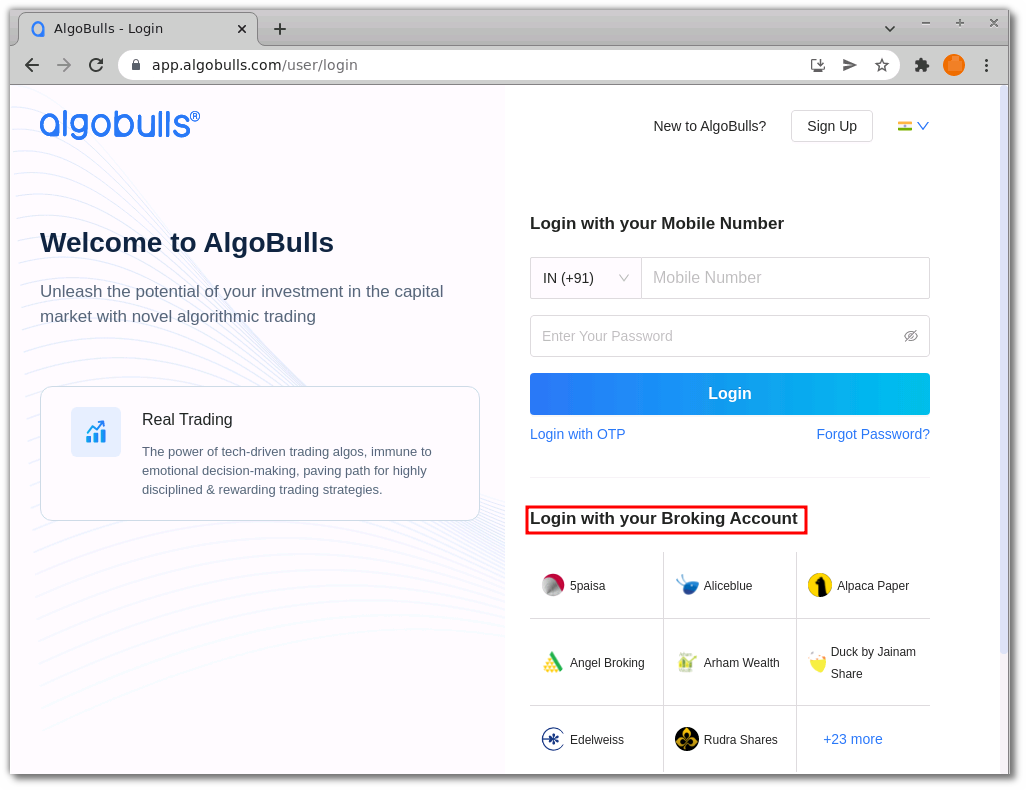
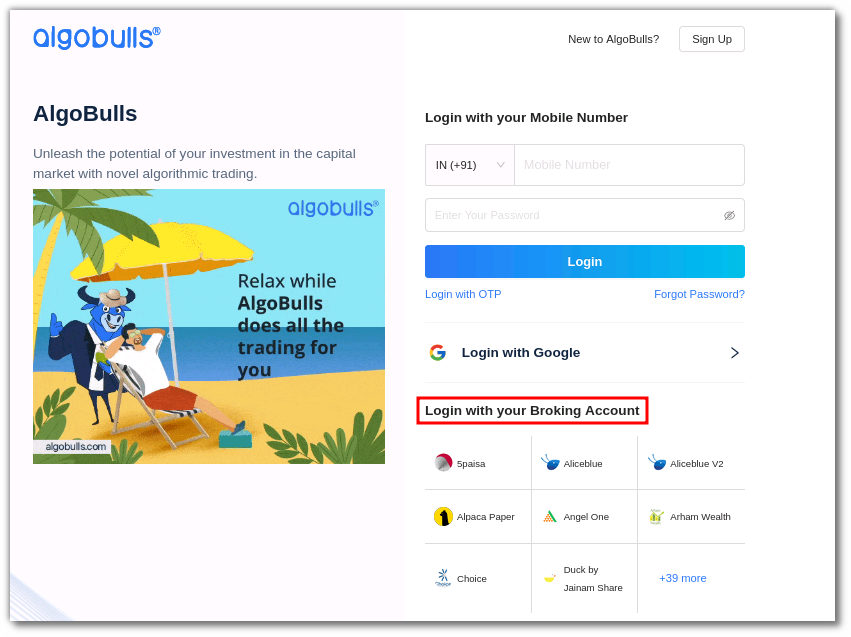
feature/python_build_choice_broker_and_brokerage_calculator_updates

diff --git a/docs/member/python-build.md b/docs/member/python-build.md
@@ -1,0 +1,205 @@
+# Python Build
+
+## 1. Introduction
+---
+
+Now you can code your own strategy easily using our Python Build service! Begin coding your own strategy from scratch or modify some of our readymade templates to suit your needs. Get access to our state-of-the-art AlgoBulls Core Trading Engine, which automatically leverages our infra so that you can access latest historical data to gauge the performance of your strategies. Tweak the various parameters of your strategy to choose the ideal instrument, indicator values, and profit loss percentages as per your needs! View the performance of your strategy using our visual analytics feature and continue to tweak till you are satisfied with the performance. Get your strategy approved for live trading from our experts and deploy it on 30+ supported brokers without coding any broker integration logic.
+
+Go to **Build Strategy** in the sidebar navigation and select **Python Build** to know more
+
+![pythonbuild](imgs/python_build_select.png)
+
+**An overview:**
+
+![pythonbuild](imgs/python_build_dashboard.png)
+
+**Running Strategies:** This section shows how many strategies are currently active and running in your account. 
+
+**Strategies Saved:** This displays the number of strategies saved in your AlgoBulls account. 
+
+**Time Consumed:** You can view the number of minutes that have been used for backtesting strategies.
+
+!!! note "Note:"
+
+    The use of backtesting is limited to one month. On weekends and after midnight (post 12 AM), you won't be able to backtest strategies.
+ 
+**Analytics Support:** This shows whether or not your analytics support is active. Analytics support is not available to free plan users.
+
+**Professional Support:** This section connects you to other professional support forums for additional support while developing the strategy. 
+
+**Active Plan:** This section displays the current plan active on your AlgoBulls account. 
+
+**Ready Templates:** Ready-to-use templates that you can modify and test.
+
+![pythonbuild](imgs/python_build_ready_templates.png)
+
+**My Coded Strategies:** Strategies that have been coded and saved by you are displayed here. This includes new and modified strategies developed by you.
+
+![pythonbuild](imgs/python_build_my_strategies.png)
+
+**Quick Help:** Resources to help you code better.
+
+![pythonbuild](imgs/python_build_help.png)
+
+**How to get started with Python Build?**
+
+![pythonbuild](imgs/python_build_plans.png)
+
+To start developing your own strategy, you must first activate a plan from the **Plans & Wallet** section. Select the **Developers** option in the **Explore Plans** section and select a plan of your choice. There are currently two developer plans available:
+
+* **Premium Developer Plan** - Develop your own Algorithmic Trading Strategy with Analytics support, concurrent Strategy Executions, Professional Support, and more.
+
+* **Free Developer Plan** - Develop your own Algorithmic Trading Strategy for Free.
+
+After selecting your preferred plan, you will be able to begin coding. You can either edit the pre-loaded **Ready Template** or use the **My Coded Strategies** section to create your own strategies.
+
+**How to code strategies using Ready Templates?**
+
+![pythonbuild](imgs/python_build_ready_templates.png)
+
+Select a template that you would like to modify from the **Ready Template** section. To view all the ready-to-use templates click on **More**.
+
+![pythonbuild](imgs/python_build_all_ready_templates.png)
+
+Click on the **Code button** placed in the bottom right corner of the selected template to view the strategy code.
+
+![pythonbuild](imgs/python_build_selected_strategy.png)
+
+You should now see the **code editor**, where you can start modifying the code as required.
+
+![pythonbuild](imgs/python_build_code_edit.png)
+
+To save the strategy, click the Save button. This strategy will be added to your list of **My coded strategies**.
+
+![pythonbuild](imgs/python_build_save_strategy.png)
+
+To test the strategy's performance, click the **Save & Start button**.
+
+**Step 1**
+
+After clicking **Save & Start**, a pop-up window will appear.
+
+![pythonbuild](imgs/python_build_save_and_start.png)
+
+**Step 2**
+
+In the **customizations** section choose **back data for backtesting** or **live data for paper trading**.
+
+Select the duration option in the customizations section. Add the desired date and time, as well as the quantity/lots. In backtesting you will need to put the start date and end date along with time.
+
+![pythonbuild](imgs/python_build_backtesting.png)
+
+In paper trading you only need to add the start and end time.
+
+![pythonbuild](imgs/python_build_papertesting.png)
+
+**Step 3**
+
+Once you scroll below,below you will see the P&L tracker. Switch the P&L tracker ON and enter your desired profit and risk appetite.
+
+![pythonbuild](imgs/python_build_pnl.png)
+
+**Step 4**
+
+In the Configuration section,section you can check the parameters added or modified by you. You can only view the configuration and not change it. To configure the parameters, go to the top right corner of the code editor and click the config button.
+ 
+**Step 5**
+
+Ensure you read the terms and conditions and then check the I agree to the Terms and conditions box. Save & Start the strategy.
+
+![pythonbuild](imgs/python_build_terms_check.png)
+
+Step 6
+
+Go to the **Results** section to see how the strategy has performed.
+
+!!! note "Note:" 
+
+    Backtesting/Paper Trading would be available from Monday - Friday (excluding NSE holidays) from 9 AM to 11:30 PM. You can code your strategy & analyse the strategy results 24x7.
+
+![pythonbuild](imgs/python_build_results.png)
+
+![pythonbuild](imgs/python_build_stats.png)
+
+![pythonbuild](imgs/python_build_pnl_book.png)
+
+![pythonbuild](imgs/python_build_user_log.png)
+
+![pythonbuild](imgs/python_build_order_history.png)
+
+You can **rename** a strategy by clicking the edit symbol besides the strategy name.
+
+![pythonbuild](imgs/python_build_strategy_rename.png)
+
+!!! note "Note:" 
+    The Analytics & Graph sections are only visible to premium plan users. If you are using a free plan, switch to a [premium developer plan now](https://devel.appv2.algobulls.com/wallet/checkout?packageType=PackageCombo&plan=5&type=renew).
+
+**How to view the Results?**
+
+Switch to the Results tab after you run your strategy. Ensure that you have saved your strategy before switching tabs, as you may lose unsaved changes.
+Premium developer plans users will be able to view the strategy analytics values & graphs while the free developer plan users can view the analytics value only in the Results section.
+
+**Statistics:** In the statistics section you can view a strategy’s Stats, P&L (INR), P&L%, ROI (INR) and ROI % 
+
+**i. Stats -** In this section you can see the **hit ratio, number of trades, average trades per day**.
+
+![pythonbuild](imgs/python_build_stats.png)
+
+**ii. P&L (INR) -** The cumulative backtesting P&L.
+
+![pythonbuild](imgs/python_build_pnl_2.png)
+
+**iii. P&L % -** The cumulative backtesting P&L percentage.
+
+![pythonbuild](imgs/python_build_pnl_percent.png)
+
+**iv. ROI (INR) -** Cumulative P&L absolute value divided by minimum capital required, ROI indicates a simulated yet accurate representation of return on capital employed.
+
+![pythonbuild](imgs/python_build_roi_inr.png)
+
+**v. ROI% -** You will be able to view the ROI in percentage here.
+
+![pythonbuild](imgs/python_build_roi_percent.png)
+
+[**vi. The Graph Tool**](https://help.algobulls.com/member/strategy-card.html#6-graph-toolbar) 
+
+![pythonbuild](imgs/python_build_graph_tool_2.png)
+
+**P&L Book:** You can view a strategy’s Gross Profit & Loss, Trading Volume & Total number of Trades. Premium users can view a heatmap for the same.
+
+![pythonbuild](imgs/python_build_pnl_book.png)
+
+![pythonbuild](imgs/python_build_trade_volume.png)
+
+![pythonbuild](imgs/python_build_total_trade.png)
+
+**User Log:** Real time logs are displayed in this section. You can download the logs too.
+
+![pythonbuild](imgs/python_build_user_log.png)
+
+**Order History:** Displays the order status with a timestamp. 
+
+![pythonbuild](imgs/python_build_order_history.png)
+
+**How to code a new strategy?**
+
+If you want to create your own strategy, click on the **+ Sign** in the **Code New Strategy** option under the **My Coded Strategies** section.
+
+![pythonbuild](imgs/python_build_new_strategy.png)
+
+A new blank code editor will open, allowing you to start coding your new strategy. After you've finished coding, click **Save** to save this strategy in the **My Coded Strategies** section.
+
+![pythonbuild](imgs/python_build_code_new_strategy.png)
+
+If you wish to test the strategy’s performance click on **Save & Start**. The performance of the strategy will soon be available in the **Results** section.
+
+You can rename a strategy by clicking the edit symbol besides the strategy name.
+
+![pythonbuild](imgs/python_build_rename_new_strategy.png)
+
+**How to Configure Strategy Parameters?**
+You can only configure a strategy’s parameters when it is saved in the **My Coded Strategies** section.
+
+![pythonbuild](imgs/python_build_new_strategy_parameters.png)
+
+You can configure the strategy’s parameters by clicking on the settings symbol on the top right corner of the code editor. In this section you can view a strategy’s parameters or edit these parameters too. 

diff --git a/docs/broker/choice.md b/docs/broker/choice.md
@@ -1,0 +1,86 @@
+# Choice Broker
+---
+
+* Official Website: [ https://choiceindia.com/]( https://choiceindia.com/)
+
+* Trading Website: [https://jiffy.choiceindia.com/auth/login](https://jiffy.choiceindia.com/auth/login)
+
+* Markets Supported: India
+
+## 1. Login and Set up your Choice Broking Account 
+---
+This section will take you through the step-wise instructions to log in, set up, and bind your broker into your AlgoBulls Account.
+
+### i. Before you Start
+---
+Keep the following information available before you start:
+
+1) AlgoBulls Account Credentials
+
+* Phone Number
+
+* Password
+
+2) Broking Account Credentials
+
+* User ID
+
+* Password
+
+* PIN
+
+### ii. Let's Start
+---
+* Visit the AlgoBulls [Login Page](https://app.algobulls.com/user/login) and click on **login with your Broking Account**.
+
+[![Choice](imgs/algo_home.png "Click to Enlarge or Ctrl+Click to open in a new Tab")](imgs/algo_home.png)
+
+* If the broker name is not visible in the list, click on + x more (where x is the number of brokers) on the bottom right corner of the page.
+
+[![Choice](imgs/search_broker.png "Click to Enlarge or Ctrl+Click to open in a new Tab")](imgs/search_broker.png)
+
+* In the search box, enter **CHOICE**, and then click on the broker link that appears in the list of results.
+
+[![Choice](imgs/choice/search_choice.png "Click to Enlarge or Ctrl+Click to open in a new Tab")](imgs/choice/search_choice.png)
+
+### iii. Login with non-OAuth Method
+---
+* Type the first few characters of your Broker Name.
+
+* Select the **CHOICE** broker.
+
+[![Choice](imgs/choice/search_choice.png "Click to Enlarge or Ctrl+Click to open in a new Tab")](imgs/choice/search_choice.png)
+
+Now Login to your AlgoBulls account. Provide data for the following fields and then click the **Login** button
+
+* **Phone Number:** The Phone Number you have used to Register/Sign-Up to the AlgoBulls website.
+
+* **Password:** The password you have given to Register/Sign-Up to the AlgoBulls website.
+
+[![Choice](imgs/sign-in-2.png "Click to Enlarge or Ctrl+Click to open in a new Tab")](imgs/sign-in-2.png)
+
+* Now go to **Broking Details** and click add broker.
+
+[![Choice](imgs/brokingdetails.png "Click to Enlarge or Ctrl+Click to open in a new Tab")](imgs/brokingdetails.png)
+
+* Choose the broker.
+
+[![Choice](imgs/choice/choose_choice.png "Click to Enlarge or Ctrl+Click to open in a new Tab")](imgs/choice/choose_choice.png)
+
+* Now Provide data for the following fields:
+
+    1. User ID: The ID given to you by your broker.
+
+    2. Password: The password given to you by the broker.
+
+    3. PIN
+
+[![Choice](imgs/choice/choice_creds.png "Click to Enlarge or Ctrl+Click to open in a new Tab")](imgs/choice/choice_creds.png)
+
+* If the verification is successful, you will see the following message:
+
+[![Choice](imgs/choice/choice_added.png "Click to Enlarge or Ctrl+Click to open in a new Tab")](imgs/choice/choice_added.png)
+
+## 2. Support
+
+For further support related to adding your Choice broker account, contact our helpful customer support team on +91 80692 30300 or email us at [support@algobulls.com](https://support@algobulls.com/).

diff --git a/docs/member/brokerage-calculator.md b/docs/member/brokerage-calculator.md
@@ -52,6 +52,7 @@ The brokerage calculator displays the [NET ROI](https://help.algobulls.com/membe
 | Sharekhan         | 0.02% per trade                           | 0.02% per trade                            | 0.02% per trade                            | ₹ 10            |
 | Zebu              | 0.02% per trade                           | 0.02% per trade                            | 0.02% per trade                            | ₹ 20            |
 | Zerodha           | ₹ 20                                      | ₹ 20                                       | ₹ 20                                       | ₹ 20            |
+| Choice            | 0.02%                                     | 0.02%                                      | 0.02%                                      | 25 per lot      | 
 
 ## 3. Government Charges
 
